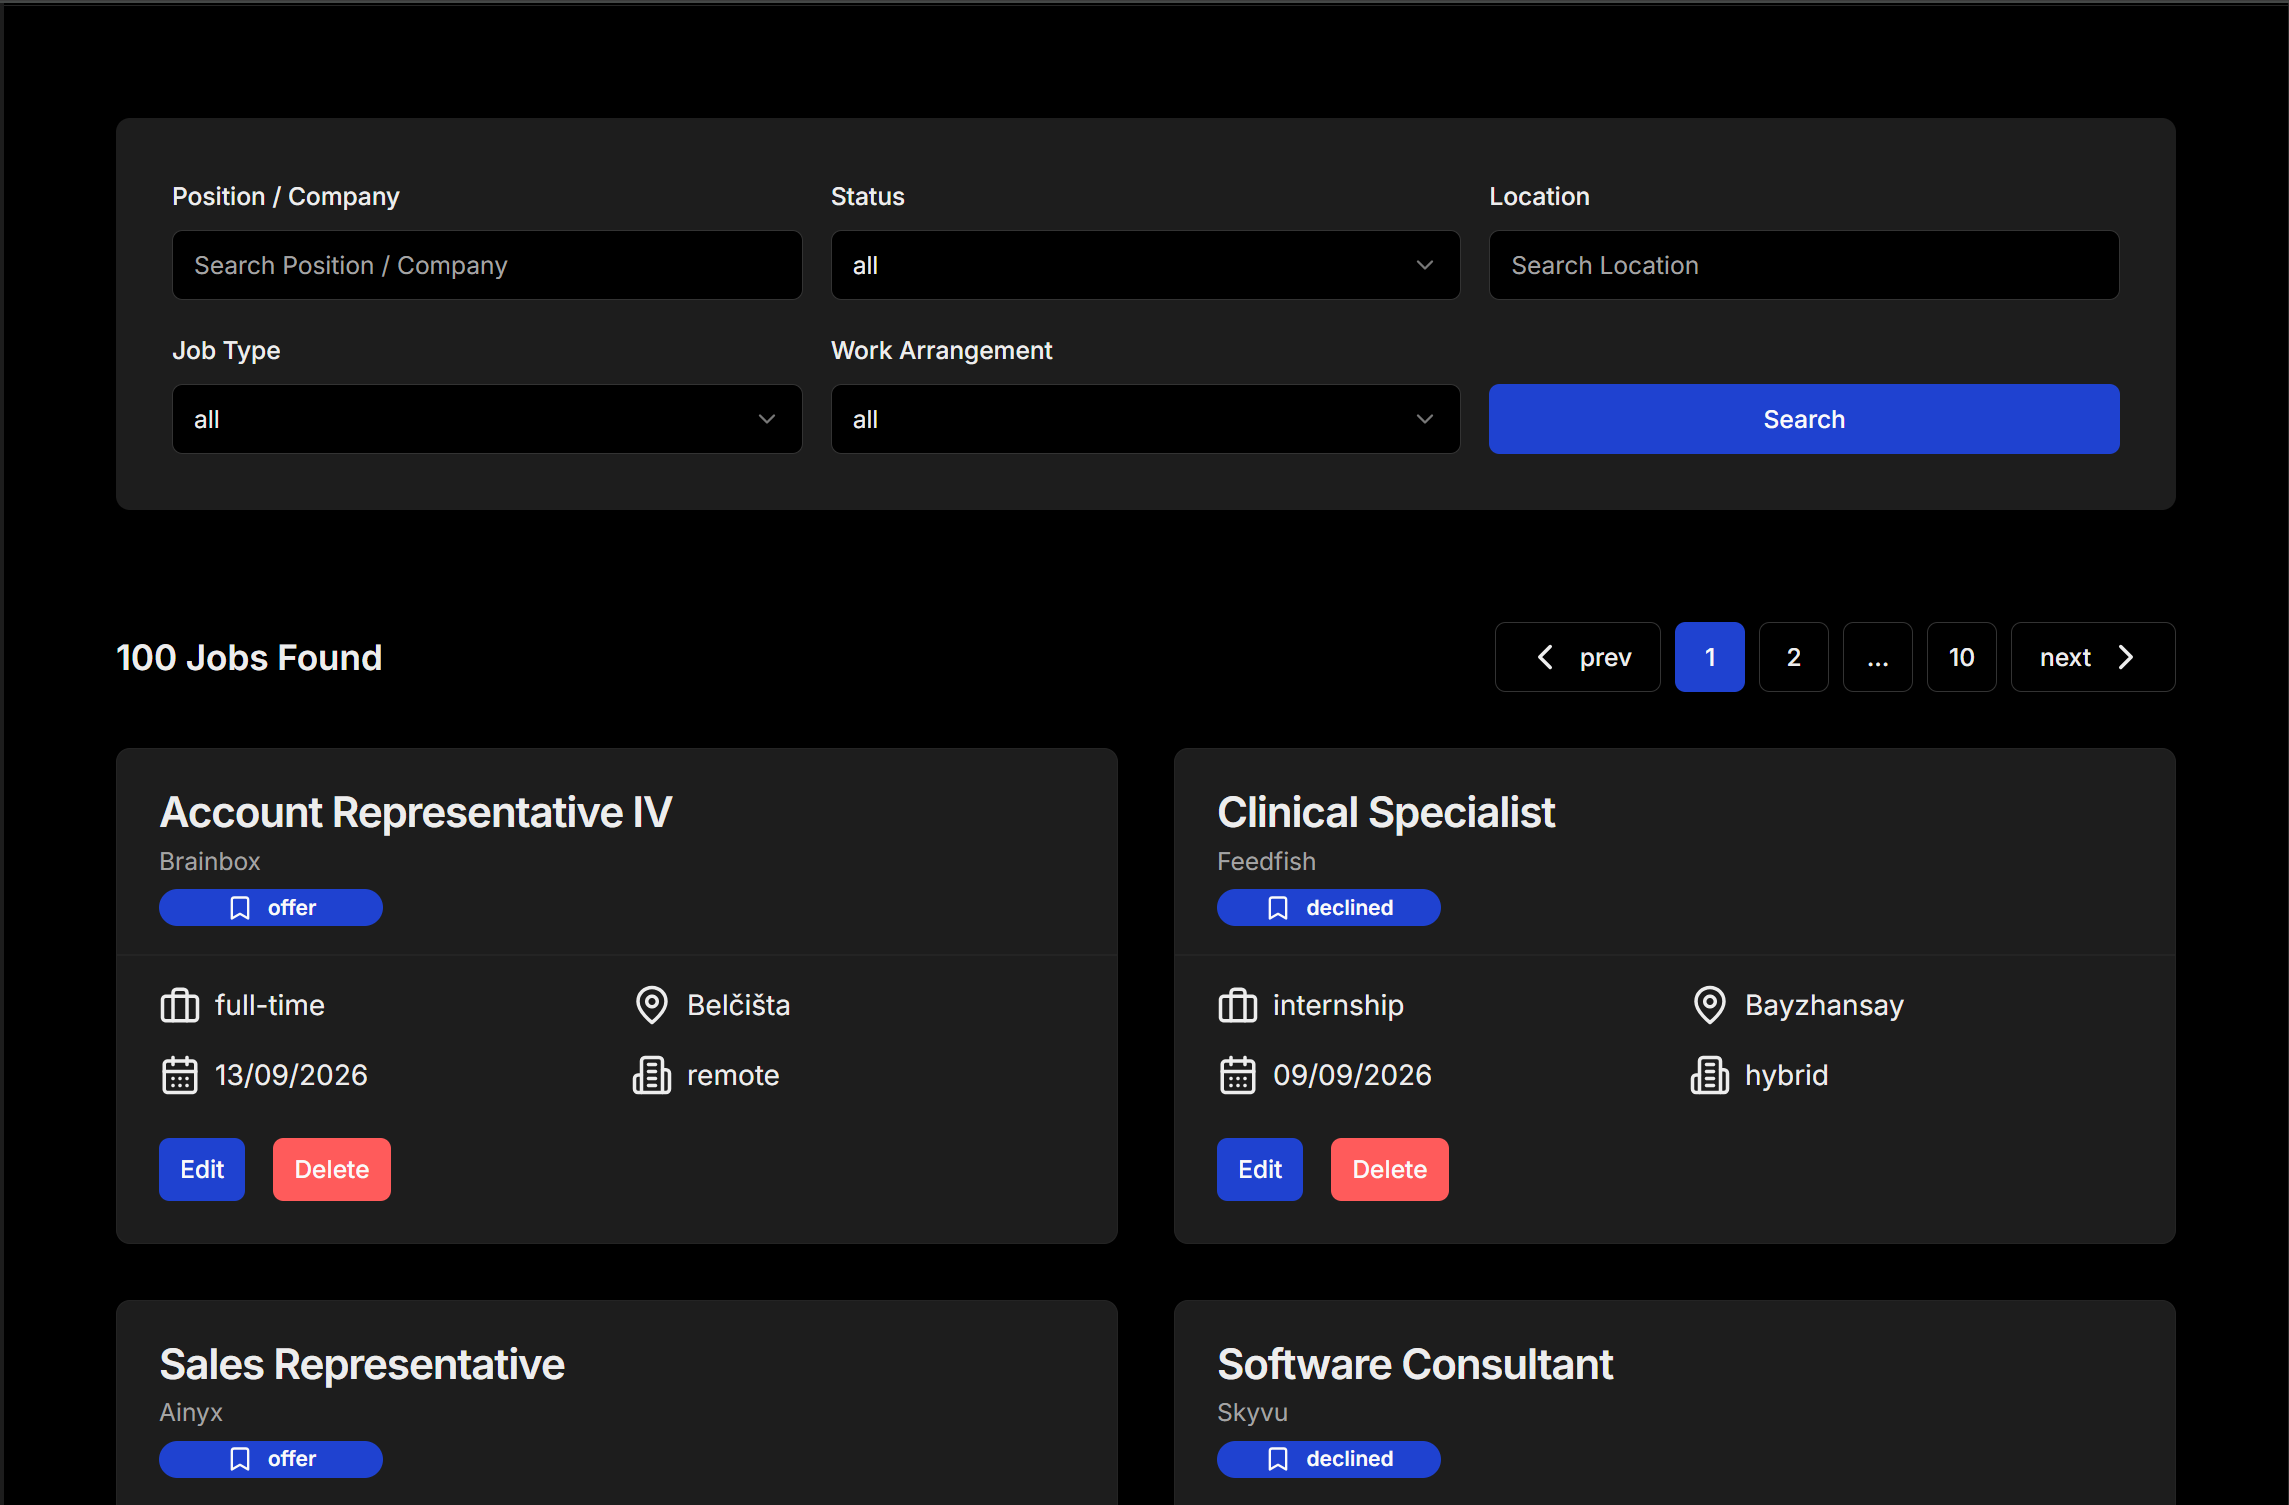
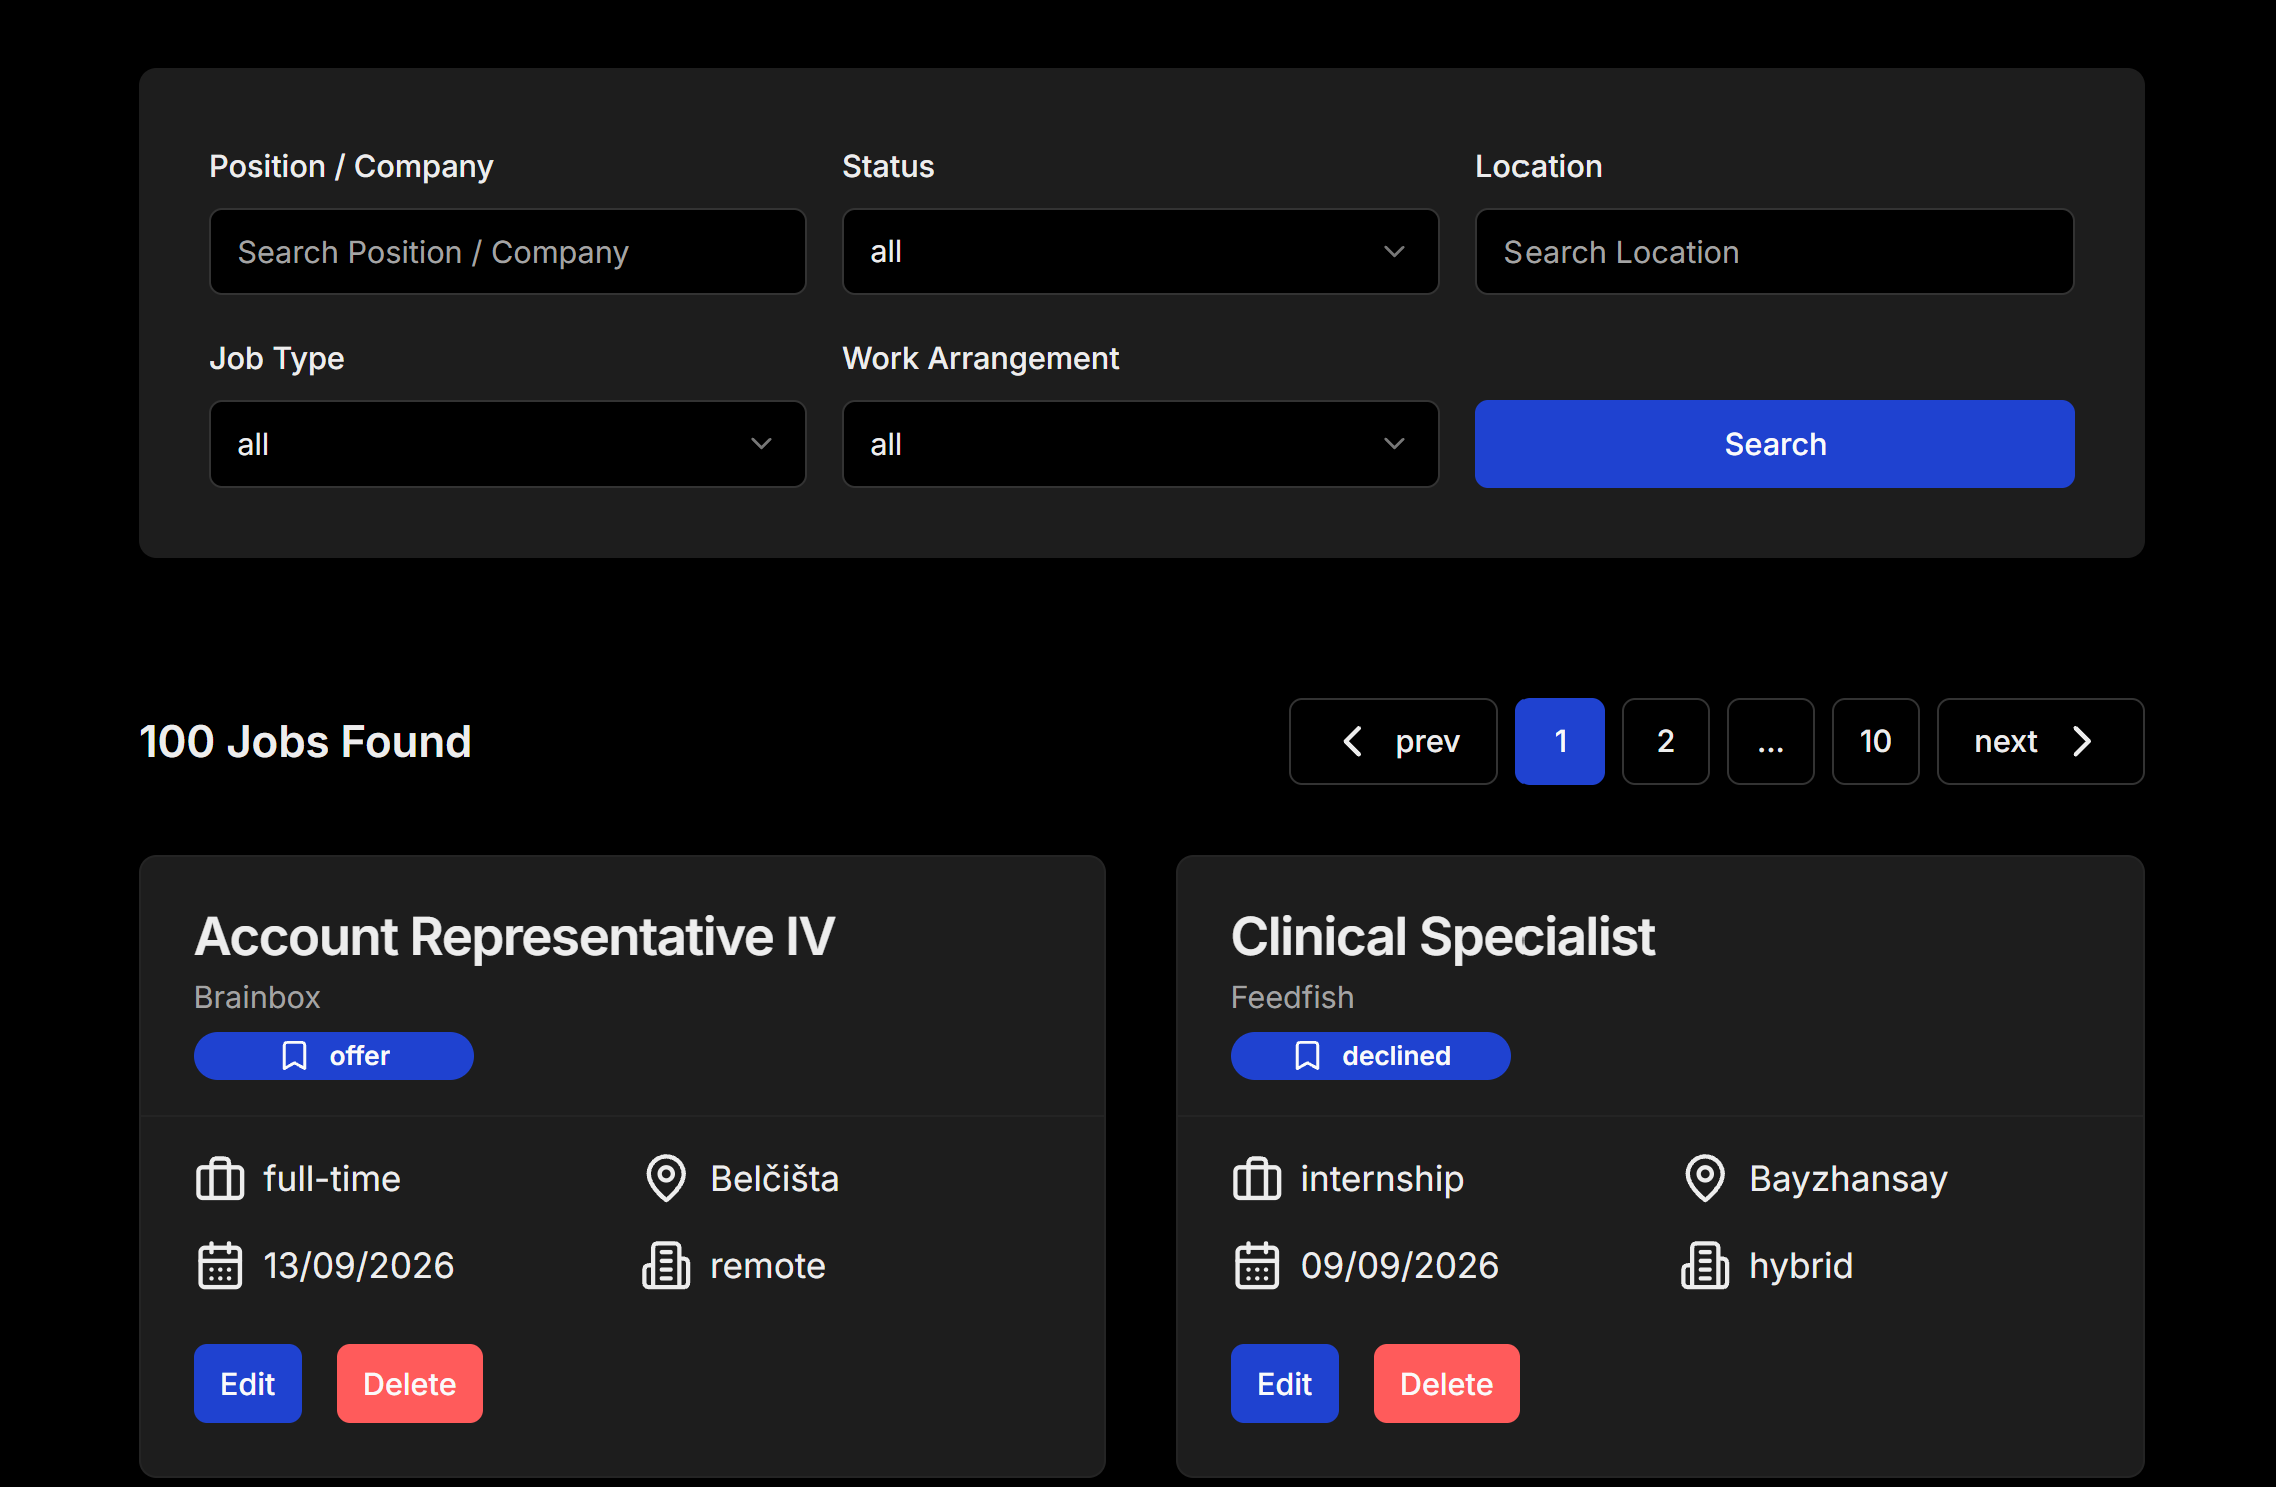
Update landing page and update README to include new screenshots

diff --git a/app/page.tsx b/app/page.tsx
@@ -1,7 +1,12 @@
+'use client'
+
 import Image from 'next/image'
 import Logo from '../assets/logo.svg'
-import JobsScreenshot from '../assets/all-jobs.png'
-import StatsScreenshot from '../assets/stats.png'
+import AllJobs from '../assets/all-jobs.png'
+import AddJob from '../assets/add-job.png'
+import Stats1 from '../assets/stats-1.png'
+import Stats2 from '../assets/stats-2.png'
+
 import { Button } from '@/components/ui/button'
 import Link from 'next/link'
 import DemoLoginButton from '@/components/DemoLoginButton'
@@ -12,26 +17,48 @@ import {
   CarouselNext,
   CarouselPrevious,
 } from '@/components/ui/carousel'
+import ThemeToggle from '@/components/ThemeToggle'
+import { useUser } from '@clerk/nextjs'
+import AccountMenu from '@/components/AccountMenu'
 
 const screenshots = [
   {
-    src: JobsScreenshot,
+    src: AllJobs,
     alt: 'List of tracked job applications with search and filters',
   },
   {
-    src: StatsScreenshot,
+    src: AddJob,
+    alt: 'Add job form with fields for position, company, location, status, job type and work arrangement',
+  },
+  {
+    src: Stats1,
+    alt: 'Stats overview with applied, interview, offer, accepted, declined and withdrawn counts, and the monthly applications chart',
+  },
+  {
+    src: Stats2,
     alt: 'Monthly applications chart and pie charts breaking down job type and work arrangement',
   },
 ]
 
 export default function HomePage() {
+  const { isSignedIn } = useUser()
   return (
-    <main className='lg:h-screen flex flex-col lg:overflow-hidden'>
-      <header className='max-w-7xl w-full mx-auto px-4 sm:px-8 py-6'>
+    <main className='lg:h-screen flex flex-col justify-center px-4 sm:px-8 lg:px-20 lg:overflow-hidden'>
+      <header className='w-full mx-auto py-6 flex flex-col gap-4 sm:flex-row sm:gap-0 items-center justify-between'>
         <Image src={Logo} alt='logo' />
+        <div className='flex items-center justify-between gap-3'>
+          <ThemeToggle />
+          {isSignedIn ? (
+            <AccountMenu />
+          ) : (
+            <Button asChild>
+              <Link href='/add-job'>Sign In / Register</Link>
+            </Button>
+          )}
+        </div>
       </header>
 
-      <section className='max-w-7xl w-full mx-auto px-4 sm:px-8 mt-8 lg:mt-0 flex-1 grid lg:grid-cols-[1fr,600px] items-center'>
+      <section className='w-full mx-auto mt-8 lg:mt-0 flex-1 grid lg:grid-cols-[0.85fr,1.15fr] items-center'>
         <div className='max-w-xl'>
           <h1 className='capitalize text-4xl md:text-6xl font-bold'>
             job <span className='text-primary'>tracking</span> app
@@ -42,7 +69,7 @@ export default function HomePage() {
             company, status, location, job type and arrangement to find exactly
             what you need. A built-in stats page turns all that data into clear
             charts and breakdowns, so you can see exactly how your search is
-            progressing at a glance.
+            progressing at a glance
           </p>
           <div className='flex flex-wrap items-center gap-4 mt-4'>
             <Button asChild>

diff --git a/components/DemoLoginButton.tsx b/components/DemoLoginButton.tsx
@@ -6,7 +6,7 @@ import { Button } from '@/components/ui/button'
 import { createDemoSignInToken } from '@/utils/actions'
 import { useRouter } from 'next/navigation'
 
-function DemoLoginBtn() {
+function DemoLoginButton() {
   const { signIn, setActive, isLoaded } = useSignIn()
   const { isSignedIn } = useUser()
   const { signOut } = useClerk()
@@ -50,4 +50,4 @@ function DemoLoginBtn() {
   )
 }
 
-export default DemoLoginBtn
+export default DemoLoginButton

diff --git a/app/providers.tsx b/app/providers.tsx
@@ -3,7 +3,6 @@ import { PropsWithChildren } from 'react'
 import ThemeProvider from '@/components/theme-provider'
 import { useState } from 'react'
 import { QueryClient, QueryClientProvider } from '@tanstack/react-query'
-import { ReactQueryDevtools } from '@tanstack/react-query-devtools'
 import { Toaster } from '@/components/ui/toaster'
 
 function Providers({ children }: PropsWithChildren) {

diff --git a/components/Navbar.tsx b/components/Navbar.tsx
@@ -4,7 +4,7 @@ import AccountMenu from '@/components/AccountMenu'
 
 function Navbar() {
   return (
-    <nav className='border-b border-border py-4 sm:px-16 lg:px-24 px-4 flex items-center justify-between'>
+    <nav className='border-b border-border py-4 px-4 sm:px-8 lg:px-16 flex items-center justify-between'>
       <div>
         <LinksDropdown />
       </div>

diff --git a/README.md b/README.md
@@ -1,18 +1,8 @@
 # Job Tracker
 
-**Live site:** https://hk-jobtracker.vercel.app/
+**Live site:** [https://hk-jobtracker.vercel.app/](https://hk-jobtracker.vercel.app/)
 
 Track and manage all your applications in one place. Log the role, company and status as you apply, then search and filter by role, company, status, location, job type and arrangement to find exactly what you need. A built-in stats page turns all that data into clear charts and breakdowns, so you can see exactly how your search is progressing at a glance.
-
-## Screenshots
-
-**All Jobs:** search, filter and page through every application you've logged.
-
-![All jobs page](./assets/all-jobs.png)
-
-**Stats:** monthly application trends, plus a breakdown by job type and work arrangement.
-
-![Stats page](./assets/stats.png)
 
 ## Try it out
 
@@ -25,7 +15,24 @@ A demo account is available directly from the landing page (no sign-up required)
 - Paginated results for large lists of applications
 - A stats dashboard with a breakdown of applications by status, a monthly applications chart, and pie charts for job type and work arrangement
 - Authentication handled via Clerk, including a one-click demo login
-- Light and dark theme support
+
+## Screenshots
+
+**All Jobs:** search, filter and page through every application you've logged.
+
+![All jobs page](./assets/all-jobs.png)
+
+**Add Job:** log a new application with its role, company, location, status, job type and work arrangement.
+
+![Add job form](./assets/add-job.png)
+
+**Stats Overview:** applied, interview, offer, accepted, declined and withdrawn counts, and the monthly applications chart.
+
+![Stats overview](./assets/stats-1.png)
+
+**Stats Breakdown:** the full monthly applications chart, and the pie charts for job type and work arrangement.
+
+![Stats breakdown](./assets/stats-2.png)
 
 ## Built with
 
@@ -33,9 +40,9 @@ A demo account is available directly from the landing page (no sign-up required)
 - [TypeScript](https://www.typescriptlang.org/)
 - [Clerk](https://clerk.com/): authentication
 - [Prisma](https://www.prisma.io/): ORM
+- [Supabase](https://supabase.com/): database
 - [TanStack Query](https://tanstack.com/query): data fetching and caching
-- [React Hook Form](https://react-hook-form.com/): form state management
-- [Zod](https://zod.dev/): schema validation
+- [React Hook Form](https://react-hook-form.com/) & [Zod](https://zod.dev/): form state management and schema validation
 - [Recharts](https://recharts.org/): charts
 - [Tailwind CSS](https://tailwindcss.com/): styling
 - [shadcn/ui](https://ui.shadcn.com/): UI components
